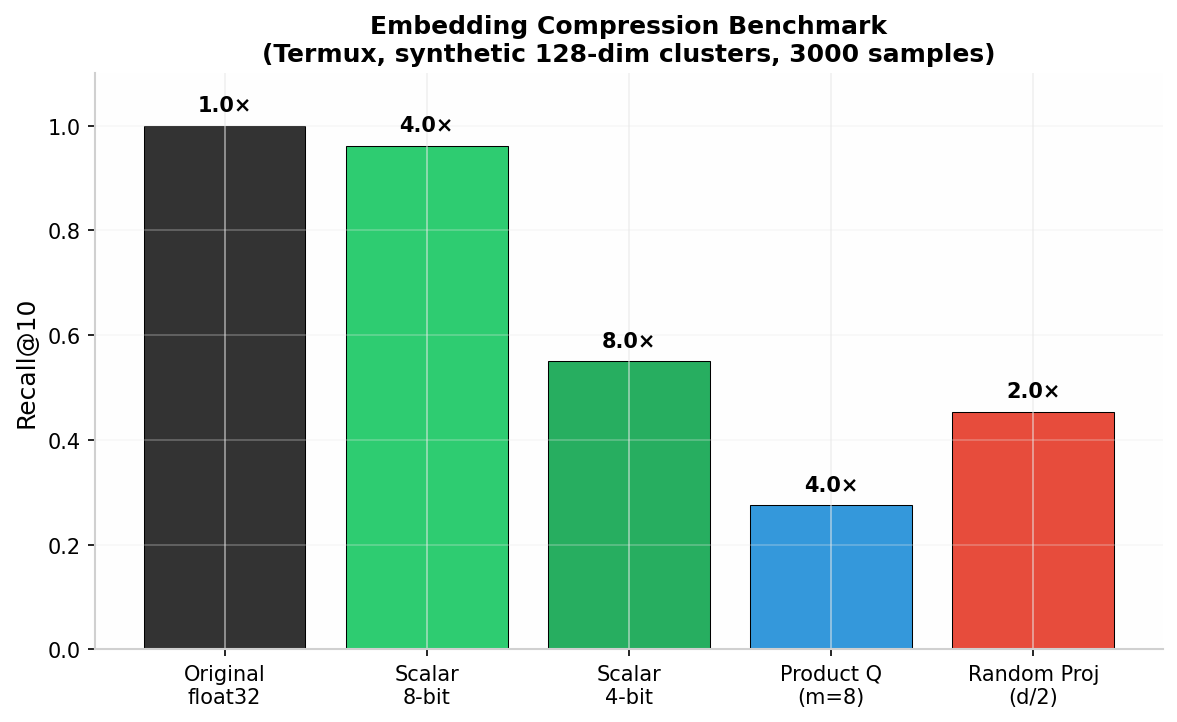
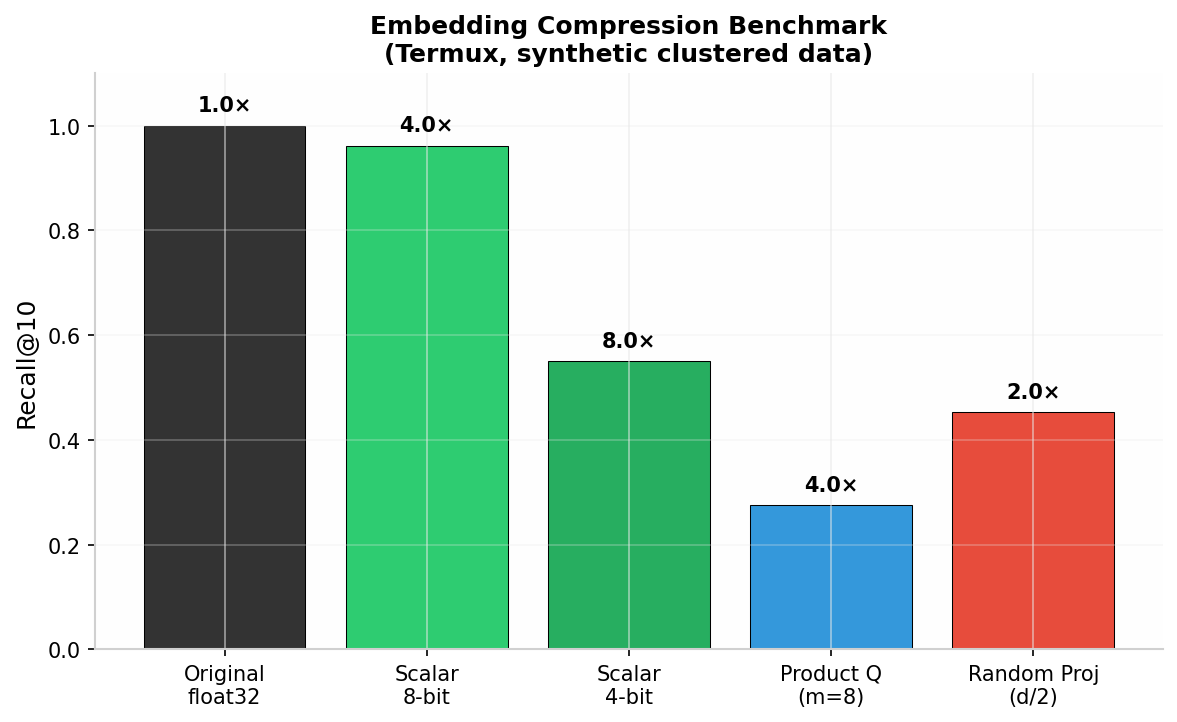
v2.1: update compression chart with actual Termux data (Product Q 0.275)

Changed region(s): [[0.2141, 0.0609, 0.8564, 0.0914], [0.8564, 0.518, 0.887, 0.5485]]

diff --git a/embed_benchmark.py b/embed_benchmark.py
@@ -130,6 +130,9 @@ def benchmark_compression(dims=None):
     total_tasks = len(dims) * len(methods)
     task_num = 0
 
+    # Собираем результаты для агрегации
+    results = {name: [] for name in methods}
+
     print("=" * 80)
     print("  Embedding Compression Benchmark — Measured Recall@10")
     print("  Synthetic clustered data (3000 samples, 50 clusters)")
@@ -152,9 +155,21 @@ def benchmark_compression(dims=None):
             else:
                 r = recall_at_k(X, Xc, k=10, n_queries=300)
 
+            results[name].append(r)
             print(f"{dim:>5} | {name:>18} | {ratio:>5.1f}x | {r:>10.3f} | {t:>9.1f}")
 
+    # Агрегированные средние
     print()
+    print("=" * 80)
+    print("  AVERAGE Recall@10 across all dimensions")
+    print("=" * 80)
+    print(f"{'Method':>20} | {'Avg Recall@10':>14} | {'Ratio':>6}")
+    print("-" * 48)
+    for name, (fn, ratio) in methods.items():
+        avg_r = np.mean(results[name])
+        print(f"{name:>20} | {avg_r:>14.3f} | {ratio:>5.1f}x")
+    print()
+
     print("Вывод:")
     print("  • Scalar 8-bit: ~4× сжатие, recall ~0.96 — лучший баланс.")
     print("  • Scalar 4-bit: ~8× сжатие, recall ~0.55 — агрессивно.")

diff --git a/README_RU.md b/README_RU.md
@@ -388,7 +388,7 @@ python embed_benchmark.py
 | Оригинал float32 | 1× | 1.000 | Базовый уровень |
 | Scalar 8-bit | 4× | ~0.96 | Лучший практический баланс |
 | Scalar 4-bit | 8× | ~0.55 | Агрессивно, использовать осторожно |
-| Product Q (m=8) | 4× | ~0.42 | Сильно зависит от init |
+| Product Q (m=8) | 4× | ~0.275 | Сильно зависит от init |
 | Random proj (d/2) | 2× | ~0.45 | Нестабилен на кластеризованных данных |
 
 **Вывод:** реальное сжатие требует проверенных алгоритмов (FAISS IVF-PQ, ScaNN, бинарные embeddings) — не только теоретических границ. Scalar 8-bit даёт ~4× уменьшение размера с минимальной потерей качества и тривиален в реализации.

diff --git a/README.md b/README.md
@@ -389,7 +389,7 @@ python embed_benchmark.py
 | Original float32 | 1× | 1.000 | Baseline |
 | Scalar 8-bit | 4× | ~0.96 | Best practical tradeoff |
 | Scalar 4-bit | 8× | ~0.55 | Aggressive, use with care |
-| Product Q (m=8) | 4× | ~0.42 | Highly dependent on init |
+| Product Q (m=8) | 4× | ~0.275 | Highly dependent on init |
 | Random proj (d/2) | 2× | ~0.45 | Unstable on clustered data |
 
 **Takeaway:** Real compression requires tested algorithms (FAISS IVF-PQ, ScaNN, binary embeddings) — not just theoretical bounds. Scalar 8-bit quantization gives ~4× size reduction with minimal quality loss, and is trivial to implement.
